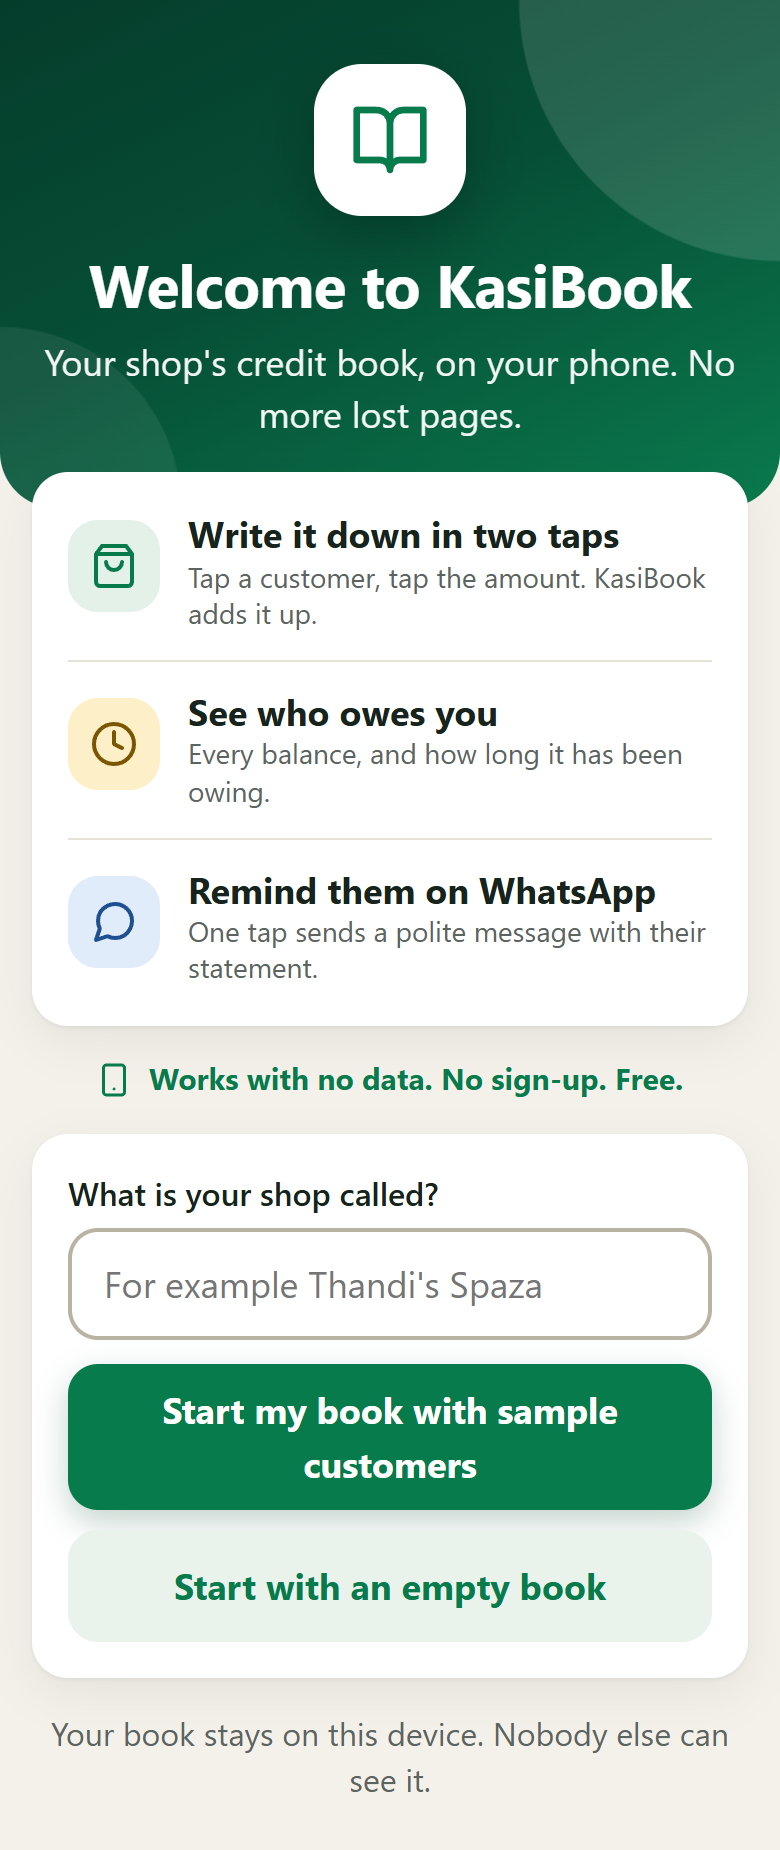
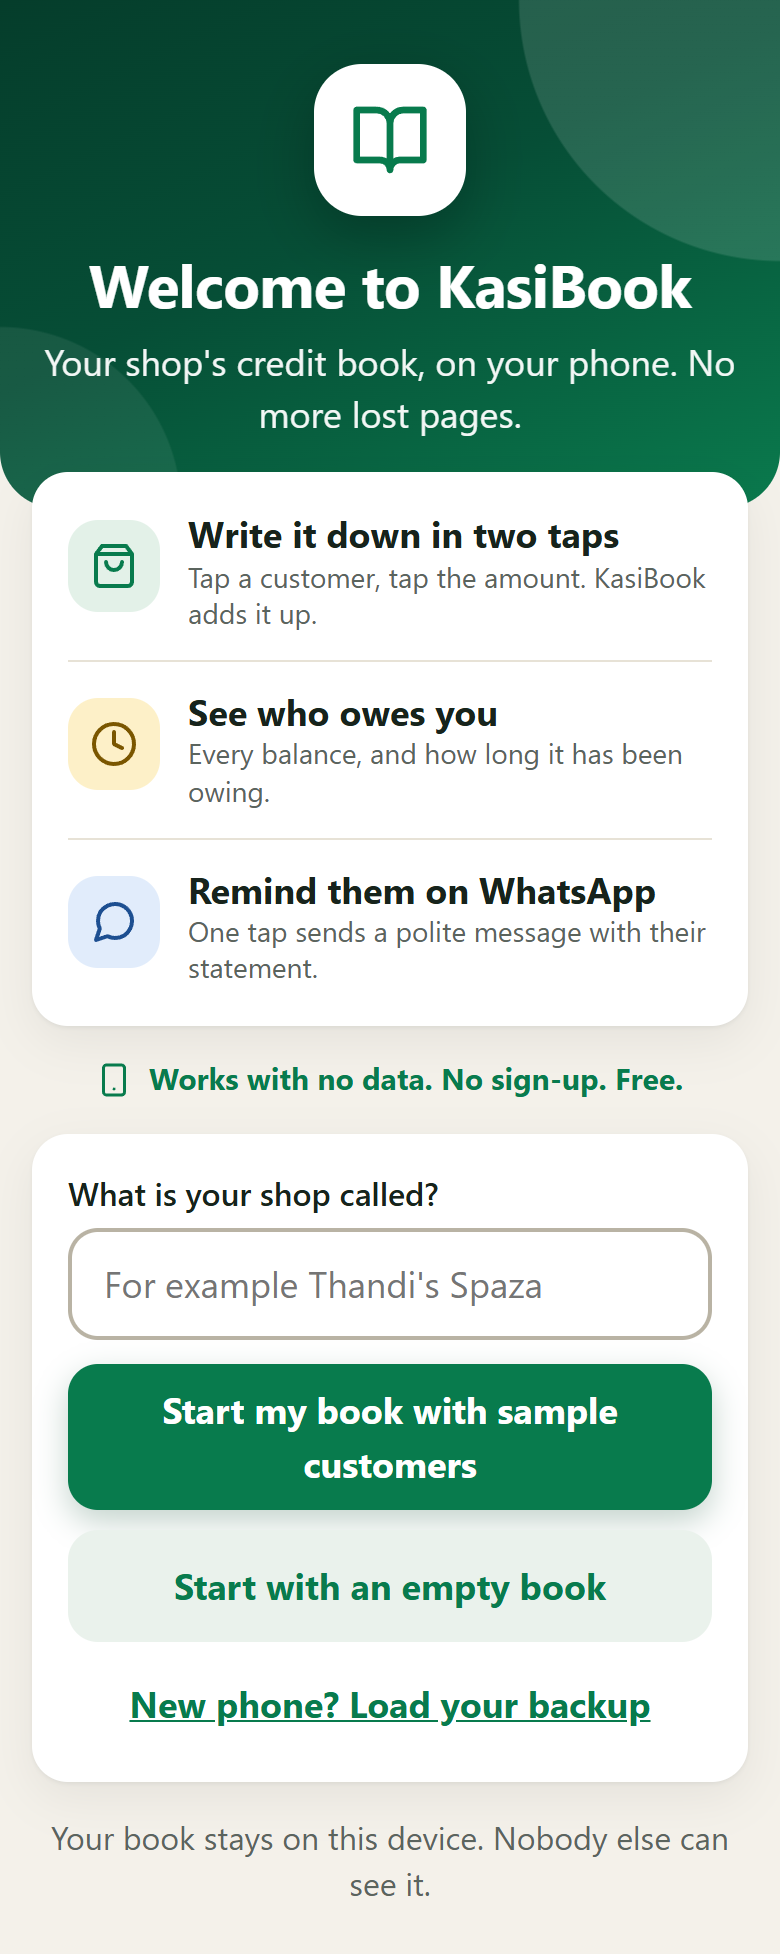
Restore a backup from the welcome screen; show messages above the tab bar

Changed region(s): [[0.0, 0.0308, 1.0, 0.9859], [0.7077, 0.0616, 0.7385, 0.0924]]

diff --git a/index.html b/index.html
@@ -160,7 +160,7 @@ input:focus { border-color: var(--green); outline: 0; }
 .history .paid { color: #187a4b; }
 .head { display: flex; justify-content: space-between; align-items: baseline; }
 
-#toast { position: fixed; left: 50%; top: 12px; z-index: 5; display: flex; justify-content: space-between; align-items: center; gap: 12px; width: min(448px, calc(100vw - 32px)); padding: 10px 16px; border-radius: 15px; background: var(--ink); color: #fff; font-size: 16px; transform: translateX(-50%); box-shadow: 0 10px 30px rgba(0, 0, 0, .3); }
+#toast { position: fixed; left: 50%; bottom: calc(88px + env(safe-area-inset-bottom)); z-index: 5; display: flex; justify-content: space-between; align-items: center; gap: 12px; width: min(448px, calc(100vw - 32px)); padding: 10px 16px; border-radius: 15px; background: var(--ink); color: #fff; font-size: 16px; transform: translateX(-50%); box-shadow: 0 10px 30px rgba(0, 0, 0, .3); }
 #toast[hidden] { display: none; }
 #toast .link { flex: none; color: var(--gold); }
 dialog { width: min(92vw, 440px); margin-top: 16px; padding: 22px; border: 0; border-radius: 22px; box-shadow: 0 30px 80px rgba(0, 0, 0, .35); }
@@ -180,7 +180,7 @@ body.wide { padding: 0; background: var(--bg); }
 .wide #app { max-width: none; min-height: 100vh; border-radius: 0; box-shadow: none; }
 .wide #app.shell { display: grid; grid-template-columns: 248px minmax(0, 1fr); align-items: start; background: linear-gradient(90deg, var(--forest) 248px, var(--bg) 248px); }
 .wide #app > :not(.welcome):not(.side):not(.main) { align-self: center; width: 100%; max-width: 480px; }
-.wide #toast { top: auto; bottom: 24px; }
+.wide #toast { bottom: 24px; }
 
 .side { position: sticky; top: 0; height: 100vh; padding: 28px 16px 16px; background: var(--forest); color: #fff; }
 .side .brand { margin: 0 12px 32px; font-size: 22px; }
@@ -650,11 +650,17 @@ function downloadBackup() {
   toast("Backup saved in your Downloads. Send it to yourself on WhatsApp to keep it safe.");
 }
 
+// A hidden file box, kept on the page so every browser lets a button open it.
+const backupPicker = () => {
+  const file = el("input", { type: "file", accept: ".json,application/json", hidden: true, onchange: () => file.files[0] && loadBackup(file.files[0]) });
+  return file;
+};
+
 async function loadBackup(file) {
   let loaded = null;
   try { if (file.size < 5e6) loaded = checkBook(JSON.parse(await file.text())); } catch { /* not a JSON file: said below */ }
   if (!loaded) return toast("That file is not a KasiBook backup.");
-  if (!confirm(`Replace the book on this device with the backup of ${loaded.shop} (${loaded.customers.length} customers)?`)) return;
+  if (book && !confirm(`Replace the book on this device with the backup of ${loaded.shop} (${loaded.customers.length} customers)?`)) return;
   const before = book;
   book = loaded;
   save();
@@ -716,6 +722,7 @@ function whatsappLink(customer) {
 // First visit: says what KasiBook is, then starts a book in one tap.
 function welcomeScreen() {
   const shop = el("input", { id: "shop", maxlength: 40, autocomplete: "off", placeholder: "For example Thandi's Spaza" });
+  const file = backupPicker();
   const step = (iconName, tone, title, text) => el("li", {},
     el("span", { class: "bubble " + tone }, icon(iconName)),
     el("span", {}, el("strong", {}, title), el("small", {}, text)));
@@ -734,7 +741,9 @@ function welcomeScreen() {
       el("label", { for: "shop" }, "What is your shop called?"),
       shop,
       el("button", { class: "btn primary" }, "Start my book with sample customers"),
-      el("button", { type: "button", class: "btn ghost", onclick: () => startBook(shop.value.trim(), false) }, "Start with an empty book")),
+      el("button", { type: "button", class: "btn ghost", onclick: () => startBook(shop.value.trim(), false) }, "Start with an empty book"),
+      el("button", { type: "button", class: "link", style: "display:block;margin:10px auto 0", onclick: () => file.click() }, "New phone? Load your backup"),
+      file),
     el("p", { class: "note", style: "text-align:center;margin-bottom:24px" }, "Your book stays on this device. Nobody else can see it."));
 }
 
@@ -745,7 +754,7 @@ function homeScreen() {
   const followUp = [...owing].sort((a, b) => daysOwing(b) - daysOwing(a)).slice(0, 3);
   const left = daysToMonthEnd();
   const hour = new Date().getHours();
-  const file = el("input", { type: "file", accept: ".json,application/json", hidden: true, onchange: () => file.files[0] && loadBackup(file.files[0]) });
+  const file = backupPicker();
   const tile = (target, iconName, tone, title, text) =>
     el(typeof target === "string" ? "a" : "button", typeof target === "string" ? { class: "tile", href: target } : { class: "tile", onclick: target },
       el("span", { class: "bubble " + tone }, icon(iconName)),
